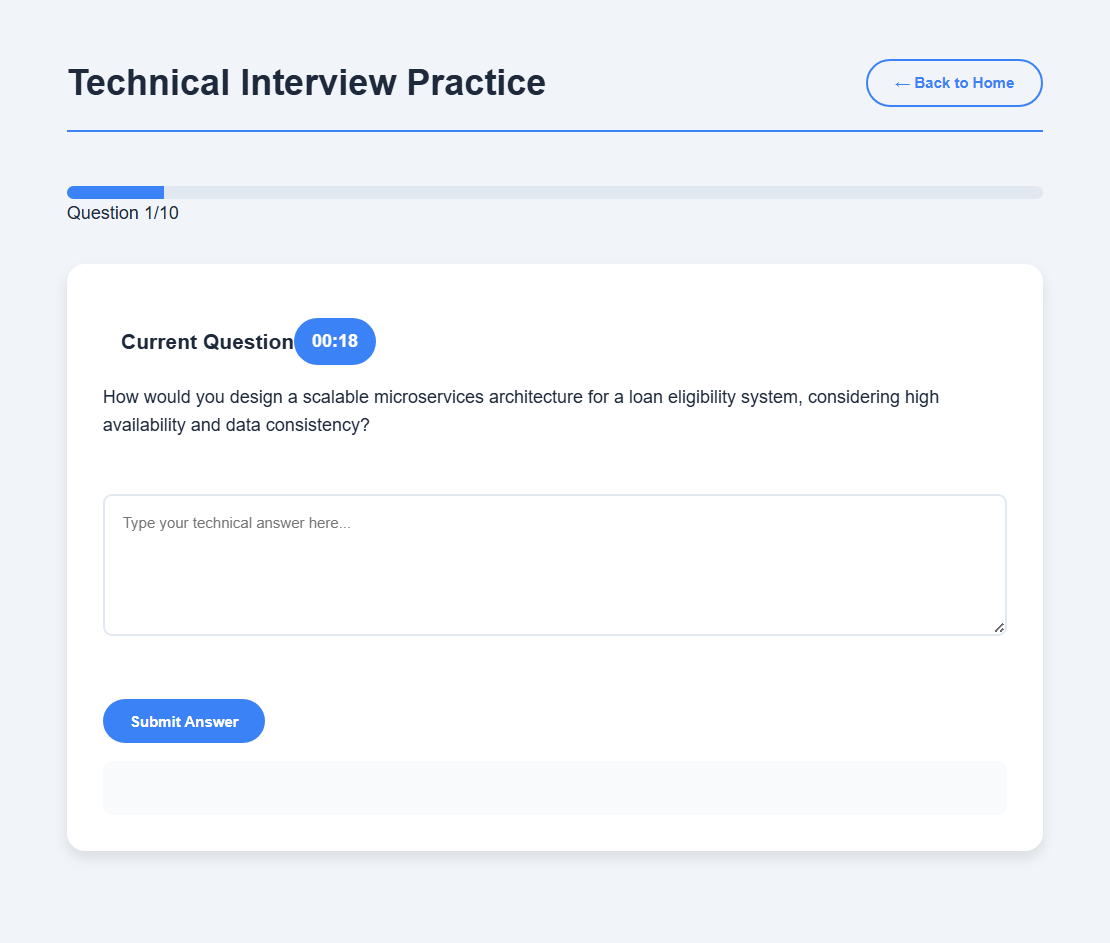
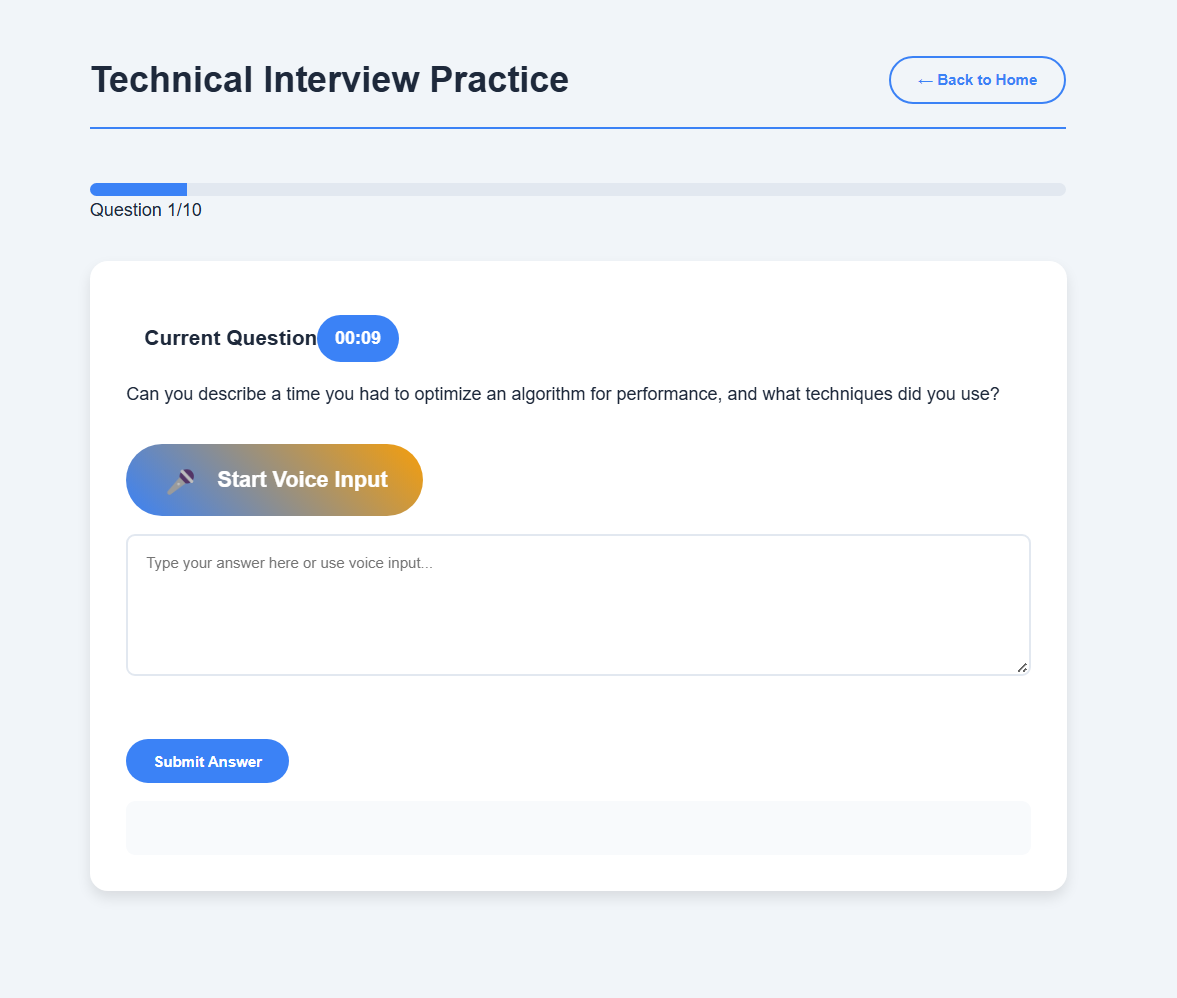
Update README to include audio answering feature and enhance setup instructions

diff --git a/README.md b/README.md
@@ -1,7 +1,7 @@
 # AI Interview Helper
 
 ## Overview
-**AI Interview Helper** is an AI-powered interview preparation platform designed for the **Solution Challenge 2025**. It helps users prepare for technical and HR interviews by providing practice questions, mock interviews, and AI-generated feedback. The platform leverages Google’s Gemini APIs to analyze user responses and provide personalized feedback, and it was developed using the IDX platform for a seamless coding experience.
+**AI Interview Helper** is an AI-powered interview preparation platform designed for the **Solution Challenge 2025**. It helps users prepare for technical and HR interviews by providing practice questions, mock interviews, and AI-generated feedback. The platform now supports **audio answering**, allowing users to respond to questions verbally and receive feedback on their tone, clarity, and content.
 
 This project addresses the challenge of preparing for job interviews by offering a comprehensive tool that simulates real-world interview scenarios, making it easier for candidates to build confidence and improve their skills.
 
@@ -10,10 +10,12 @@ This project addresses the challenge of preparing for job interviews by offering
   - Practice coding questions categorized by difficulty (Easy, Medium, Hard).
   - Upload code or resumes for AI analysis using Gemini APIs.
   - Receive detailed feedback on technical responses.
+  - **New:** Answer technical questions via audio input and receive AI-generated feedback.
 - **HR Interview Preparation:**
   - Access a curated list of common HR questions.
   - Simulate HR interviews with AI-generated follow-up questions.
   - Get feedback on communication and behavioral responses.
+  - **New:** Respond to HR questions using audio input and get feedback on tone, clarity, and content.
 - **DSA Practice Questions:**
   - Explore a collection of Data Structures and Algorithms (DSA) questions.
   - Questions are organized into Easy, Medium, and Hard categories for progressive learning.
@@ -35,6 +37,7 @@ This project addresses the challenge of preparing for job interviews by offering
   - **Font Awesome**: For icons.
 - **APIs and Platforms:**
   - **Google Gemini APIs**: Used for AI-powered feedback on user responses (e.g., code analysis, behavioral feedback).
+  - **Web Speech API**: Used for capturing and processing audio inputs for technical and HR interviews.
 - **Deployment:**
   - **Render**: Hosted on Render for live deployment.
   - **GitHub**: Source code hosted on a public GitHub repository.
@@ -91,11 +94,13 @@ To run this project locally, follow these steps:
 
 4. **Install JavaScript Dependencies:**
 - npm install
+- If using the Web Speech API, ensure your browser supports it (e.g., Chrome, Edge).
 
 5. **Set Environment Variables:**
 - Create a `.env` file in the project root and add your GEMINI_API_KEY and GEMINI_HR_API_KEY:
 - GEMINI_API_KEY=your-gemini-api-key
 - GEMINI_HR_API_KEY=your-gemini-hr-api-key
+- GOOGLE_APPLICATION_CREDENTIALS = /path/to/your/GOOGLE_APPLICATION_CREDENTIALS.json/files
 
 6. **Run the Flask App:**
 - uvicorn app.routes.interview_routes:router --host 0.0.0.0 --port 8000 --reload 
@@ -127,6 +132,7 @@ To run this project locally, follow these steps:
 - **Expanded Question Bank:** Include more DSA and HR questions, categorized by industry.
 - **User Profiles:** Allow users to save their progress and track improvement over time.
 - **Advanced AI Feedback:** Integrate more advanced Gemini API features for deeper analysis (e.g., sentiment analysis, code optimization suggestions).
+- **Enhanced Audio Answering:** Improve audio processing with noise cancellation and multi-language support.
 
 ## Contributing
 We welcome contributions to improve AGAIN_GOOGLE! To contribute:
